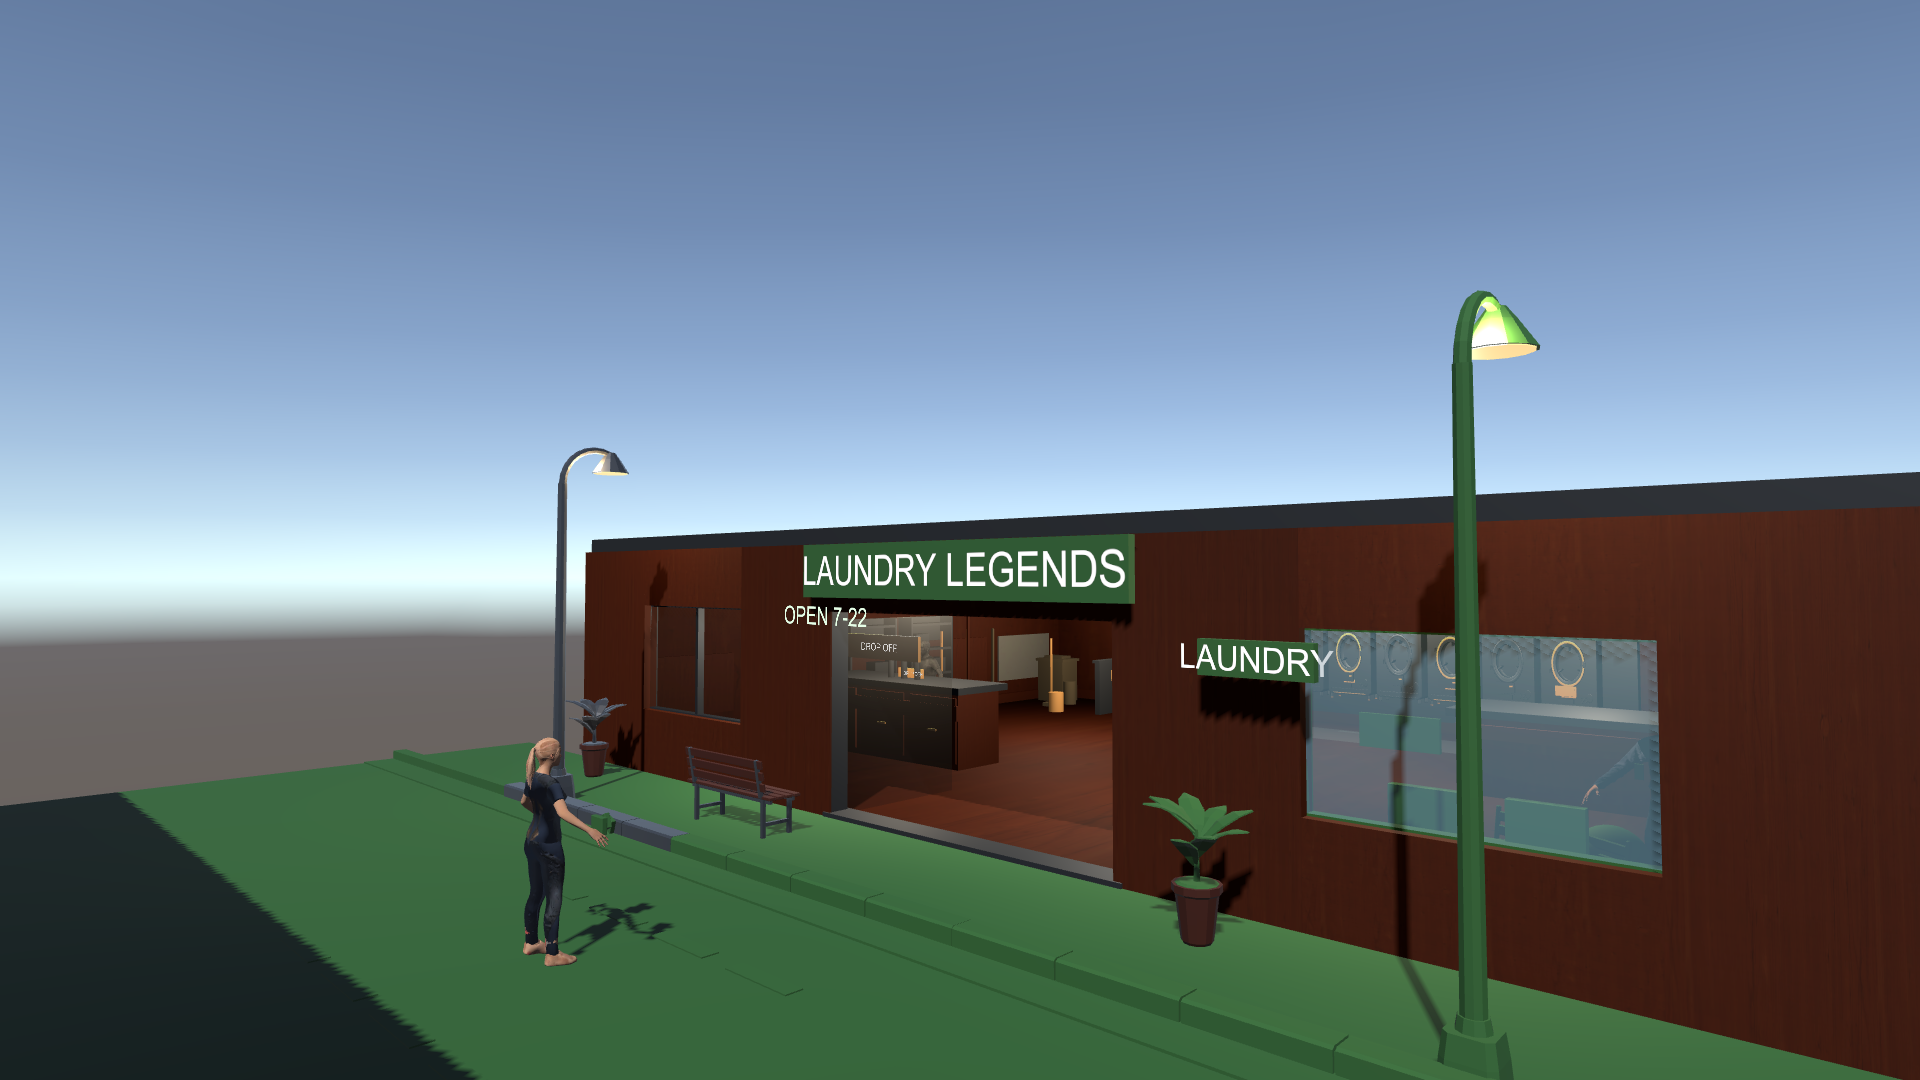
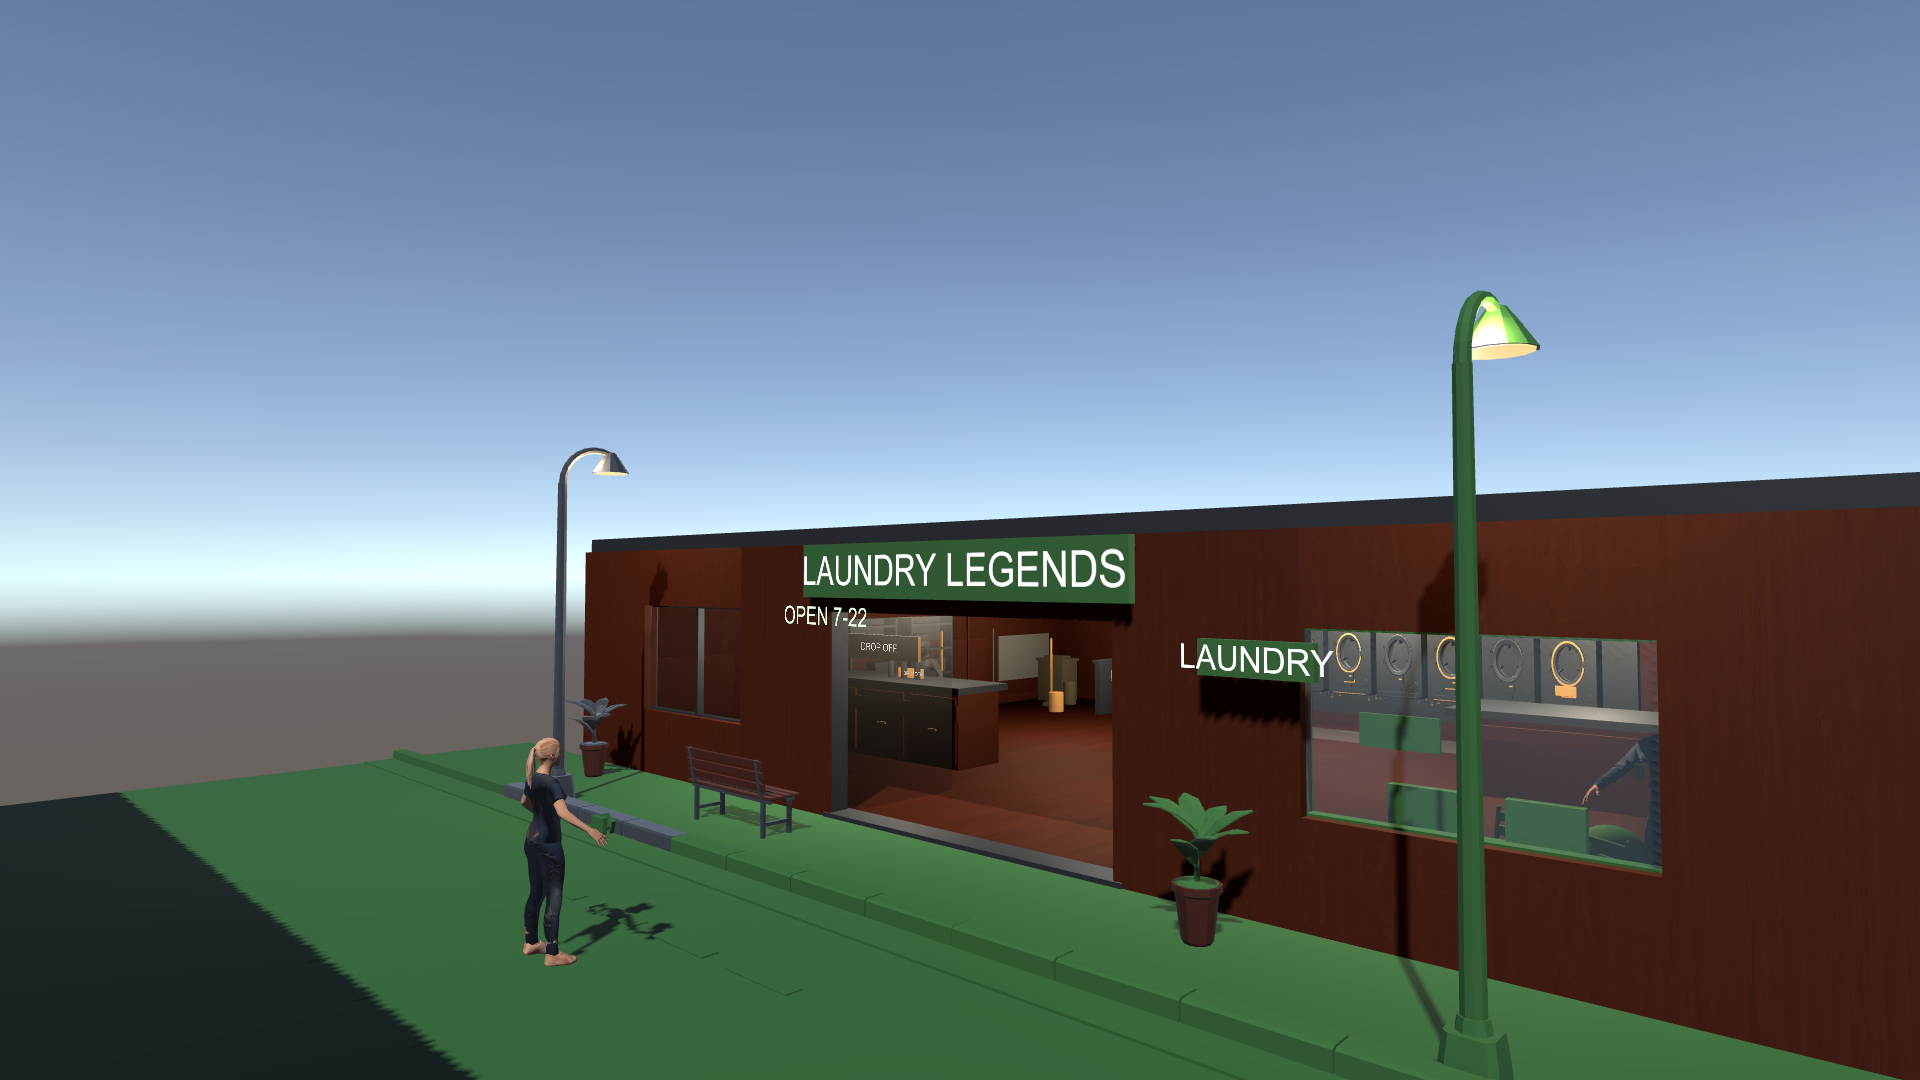
fix(art): make storefront glass transparent
LL-B-026/LL-B-027: Grey_Glass is now a transparent URP material; the left window shows the interior and the open door no longer reads as a dark blob.

Changed region(s): [[0.6562, 0.5806, 0.875, 0.825]]

diff --git a/Assets/LaundryLegends/Editor/Phase12CaptureTool.cs b/Assets/LaundryLegends/Editor/Phase12CaptureTool.cs
@@ -54,6 +54,65 @@ namespace LaundryLegends.Editor
             }
         }
 
+        [MenuItem("Laundry Legends/Phase 16/Fix Glass")]
+        public static void FixGlass()
+        {
+            var material = AssetDatabase.LoadAssetAtPath<Material>(
+                "Assets/LaundryLegends/Art/Materials/Grey_Glass.mat");
+            if (material == null)
+            {
+                Debug.LogError("[P16] Grey_Glass.mat missing.");
+                return;
+            }
+
+            Shader lit = Shader.Find("Universal Render Pipeline/Lit");
+            if (lit != null)
+            {
+                material.shader = lit;
+            }
+
+            material.SetColor("_BaseColor", new Color(0.62f, 0.76f, 0.86f, 0.12f));
+            material.SetFloat("_Smoothness", 0.95f);
+            material.SetFloat("_Metallic", 0f);
+            material.SetFloat("_Surface", 1f);
+            material.SetFloat("_Blend", 0f);
+            material.SetFloat("_SrcBlend", (float)UnityEngine.Rendering.BlendMode.SrcAlpha);
+            material.SetFloat("_DstBlend", (float)UnityEngine.Rendering.BlendMode.OneMinusSrcAlpha);
+            material.SetFloat("_ZWrite", 0f);
+            material.EnableKeyword("_SURFACE_TYPE_TRANSPARENT");
+            material.DisableKeyword("_ALPHATEST_ON");
+            material.renderQueue = 3000;
+            EditorUtility.SetDirty(material);
+            AssetDatabase.SaveAssets();
+            Debug.Log("[P16] Window/door glass set to transparent.");
+        }
+
+        [MenuItem("Laundry Legends/Phase 16/Probe Remaining")]
+        public static void ProbeRemaining()
+        {
+            EditorSceneManager.OpenScene(ScenePath, OpenSceneMode.Single);
+            Vector3 player = new Vector3(-1.8f, 0.1f, -4.4f);
+            foreach (Renderer renderer in Object.FindObjectsByType<Renderer>(FindObjectsSortMode.None))
+            {
+                Vector3 center = renderer.bounds.center;
+                if (Vector3.Distance(new Vector3(center.x, 0f, center.z),
+                        new Vector3(player.x, 0f, player.z)) < 2.4f
+                    && center.y < 1.4f)
+                {
+                    Debug.Log($"[P16-NEAR] {renderer.name} center={center} size={renderer.bounds.size} " +
+                              $"mat={(renderer.sharedMaterial != null ? renderer.sharedMaterial.name : "null")}");
+                }
+
+                if (renderer.sharedMaterial != null
+                    && renderer.sharedMaterial.name.IndexOf("Glass", System.StringComparison.OrdinalIgnoreCase) >= 0
+                    && center.z < -5.0f)
+                {
+                    Debug.Log($"[P16-GLASS] {renderer.name} center={center} size={renderer.bounds.size} " +
+                              $"mat={renderer.sharedMaterial.name} parent={renderer.transform.parent.name}");
+                }
+            }
+        }
+
         [MenuItem("Laundry Legends/Phase 16/Brighten Left Window")]
         public static void BrightenLeftWindow()
         {

diff --git a/.orchestrator/BACKLOG.md b/.orchestrator/BACKLOG.md
@@ -227,3 +227,5 @@ Skipped because they need external access, a purchased asset, or an explicit dec
 - `LL-B-026` / `LL-B-027` - unidentified lower-left geometry and the dark left storefront window; need a visual art pass.
 
 Still open: 12 accepted/deferred tickets (no P0/P1 code bugs).
+
+Follow-up fixed: LL-B-026 and LL-B-027 - the dark lower-left mesh was the open entrance glass door, and the dark window used the same material. `Grey_Glass` is now a transparent URP material, so both the window and door show the interior.
